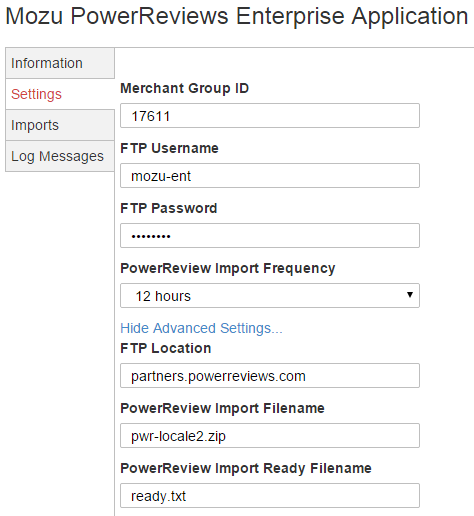
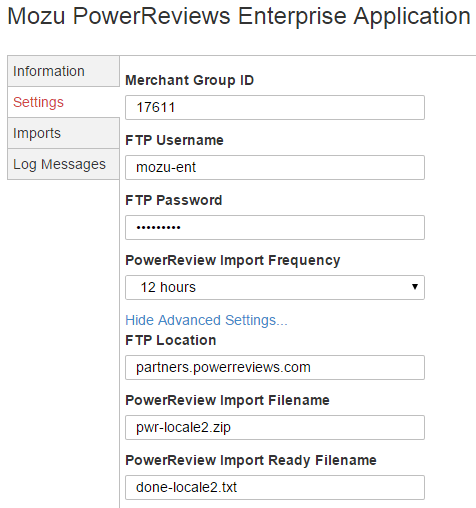
Updating with latest developer comments.

Changed region(s): [[0.0, 0.0886, 1.0, 1.0], [0.0, 0.0, 1.0, 0.0591]]

diff --git a/PowerReviews/Mozu-PowerReviews-App.htm b/PowerReviews/Mozu-PowerReviews-App.htm
@@ -131,10 +131,11 @@
                                 </li>
                                 <li><a href="#enable">Enable the App</a>
                                 </li>
+								<li><a href="#widgets">Add Widgets to Your Storefront</a>
+                                </li>
                                 <li><a href="#import">Import and Export Data</a>
                                 </li>
-                                <li><a href="#widgets">Add Widgets to Your Storefront</a>
-                                </li>
+                                
                             </ul>
                         </nav>
                     </div>
@@ -144,20 +145,27 @@
 				<section id="intro">
                             <h2>Welcome to PowerReviews and Mozu</h2>
                             <p><a href="http://www.powerreviews.com">PowerReviews</a> provides ratings and reviews that help increase buyer confidence and stimulate sales for your products. With PowerReviews, customers can leave ratings, write reviews, and ask questions directly on your product pages. PowerReviews can syndicate product reviews from all major retailers and search engines, increasing the reach of the reviews on your storefront.</p>
-                            <p>The <a href="http://www.mozu.com">Mozu</a> PowerReviews Enterprise Application seamlessly integrates your PowerReviews account with your storefront so that you can start displaying and generating reviews on your product and category pages. With the Mozu PowerReviews Enterprise Application, you can import and export PowerReviews content on demand or at scheduled intervals, ensuring that your storefront is kept up to date with the latest available reviews.</p>
+                            <p>The <a href="http://www.mozu.com">Mozu</a> PowerReviews Enterprise Application seamlessly integrates your PowerReviews account with your storefront so that you can start displaying and generating reviews on your product and category pages. With the Mozu PowerReviews Enterprise Application, you can import the following PowerReviews content on demand or at scheduled intervals between 1 to 12 hours, ensuring that your storefront is kept up to date with the latest available reviews:</p>
+							<ul>
+							<li>Ratings for each product, which also can be used for faceted search on your site</li>
+							<li>Reviews for each product</li>
+							<li>Social Answers (Question and Answer boxes)</li>
+							<li>SEO data for search engine bots</li>
+							</ul>
                         </section>
                         <section id="install">
                             <h2>Install the Mozu PowerReviews Enterprise Application on Your Tenant</h2>
                             <p>After purchasing the Mozu PowerReviews Enterprise Application, call your sales or professional services representative and request installation on your tenant. Mozu staff will install the app to your tenant, making it available for further configuration and usage in your storefront.</p>
                             <p>This application includes the following functionality:</p>
                             <ul>
-                                <li>Display PowerReviews widgets on your storefront, such as ratings summaries, detailed reviews, and Q &amp; A boxes.</li>
+                                <li>Display PowerReviews ratings summaries, detailed reviews, Write a Review links, and Question and Answer boxes using widgets in Site Builder.</li>
                                 <li>Incorporate PowerReviews ratings into your storefront's faceting filters.</li>
                                 <li>Import product reviews from PowerReviews to Mozu.</li>
-                                <li>Export product reviews received on your storefront to PowerReviews.</li>
-                                <li>Schedule imports/exports between PowerReviews and Mozu at set intervals or on demand.</li>
-                                <li>Generate SEO data from visible reviews on your product pages. This data is used by search engine bots to index your page and can bolster search results.</li>
-                                <li>Provide logging details for scheduled and on-demand jobs.</li>
+                                <li>Export products and categories from your site to PowerReviews.</li>
+								<li>Send customer reviews received on your storefront to PowerReviews.</li>
+                                <li>Schedule imports between PowerReviews and Mozu at set intervals or on demand.</li>
+                                <li>Increase your site's search engine optimization using reviews on your product pages. Search engine bots can use reviews content to index your page and bolster search results.</li>
+                                <li>Place web beacon widgets on your checkout page to measure the impact that reviews and Q&A have on sale conversion.</li>
                             </ul>
                             <h3 id="configreq">Configuration Requirements</h3>
                             <p>To configure the Mozu PowerReviews Enterprise Application, you must have the following:</p>
@@ -167,7 +175,7 @@
 								</li>
                                 <li>Access to modify and update your storefront theme.</li>
                             </ul>
-                            <p style="font-weight: normal;"><b>Note:</b> If you want to integrate reviews from a Volusion site with your PowerReviews account, contact our support team. If you want to integrate reviews from a third-party service, contact PowerReviews or an implementation engineer.</p>
+                            <p style="font-weight: normal;"><b>Note:</b> If you are switching from Volusion to Mozu and want to transfer your existing Volusion reviews, contact our support team. If you are switching from a third-party site to Mozu and want to transfer your reviews, contact PowerReviews or an implementation engineer.</p>
                         </section>
                         <section id="configapp">
                             <h2>Configure the Application</h2>
@@ -176,64 +184,50 @@
                             <ol>
                                 <li>Log in to your PowerReviews account.</li>
                                 <li style="font-weight: normal;">Click <b>Configuration»Configure Reviews</b> to display the general configuration settings for your PowerReviews account.</li>
-                                <li style="font-weight: normal;">Note the <i>Merchant Group ID</i>, <i>Merchant ID</i>, <i>Site ID</i>, <i>FTP Site</i>, <i>FTP username</i>, <i>FTP password</i>, and <i>ZIP File Name</i>. You need to enter these settings in Mozu.<br /><img src="powerreviews_config.png" class="img-mozu" /></li>
+                                <li style="font-weight: normal;">Note the <i>Merchant Group ID</i>, <i>Merchant ID</i>, <i>Site ID</i>, <i>FTP Site</i>, <i>FTP username</i>, <i>FTP password</i>, and <i>ZIP File Name</i>. You will need to enter these settings in Mozu.<br /><img src="powerreviews_config.png" class="img-mozu" /></li>
                                 <li>Log in to Mozu Admin.</li>
                                 <li>On the Mozu Admin top bar, select <b>Settings»Applications</b>.</li>
                                 <li>Click <b>Mozu PowerReviews Enterprise Application</b>.</li>
                                 <li>Click the <b>Configuration</b> link to open configuration settings.</li>
                                 <li>Open the <b>Settings</b> tab.</li>
-                                <li style="font-weight: normal;">Click <b>Add Merchant Group</b> to add your PowerReview account information to Mozu.
-									<ol><li style="font-weight: normal;">Enter the <b>Merchant Group ID</b>.</li><li style="font-weight: normal;">Enter the <b>FTP Username</b>.</li><li style="font-weight: normal;">Enter the <b>FTP Password</b>.</li><li style="font-weight: normal;">In the <b>PowerReview Import Frequency</b> drop-down, choose a frequency for importing content from PowerReviews to your Mozu site.</li><li style="font-weight: normal;">Click <b>Show Advanced Settings</b>.</li><li style="font-weight: normal;">Enter the <b>FTP Location</b> using the FTP site from your PowerReviews account.</li><li>Enter the <b>PowerReview Import Filename</b> using the ZIP file name from your PowerReviews account.</li><li>Create a <b>PowerReview Import Ready Filename</b> of your choice.</li></ol><img src="powerreviews_merchant.png" class="img-mozu" /></li>
-                                <li style="font-weight: normal;">Click <b>Add Mozu Site</b> to configure PowerReviews for your storefront.
-								<ol><li style="font-weight: normal;">Select your storefront from the <b>Mozu Site</b> drop-down.</li><li style="font-weight: normal;">Choose to enable exports to PowerReviews of your product and order ratings using <b>Enable Product Export</b> and <b>Enable Order Export</b>.</li><li style="font-weight: normal;">Enter the <b>Merchant ID</b>.</li><li style="font-weight: normal;">Enter the <b>Merchant Site ID</b>.</li><li style="font-weight: normal;">Enter the <b>Locale</b> to match your site settings.</li><li style="font-weight: normal;">Choose how much data to export using the <b>Number of days to include in order export</b>.</li></ol><img src="powerreviews_site.png" class="img-mozu" /></li>
-                                <li style="font-weight: normal;">Click <b>Save</b> to save changes to the Mozu Site.</li>
-								<li>Click <b>Save</b> to save changes to the Merchant Group.</li>
+                                <li style="font-weight: normal;">Click <b>Add Merchant Group</b> to add your PowerReview account information to Mozu:<br><img src="powerreviews_merchant.png" class="img-mozu" />
+									<ol><li style="font-weight: normal;">Enter the <b>Merchant Group ID</b>.</li><li style="font-weight: normal;">Enter the <b>FTP Username</b>.</li><li style="font-weight: normal;">Enter the <b>FTP Password</b>.</li><li style="font-weight: normal;">In the <b>PowerReview Import Frequency</b> drop-down, choose a frequency for importing content from PowerReviews to your Mozu site.</li><li style="font-weight: normal;">Click <b>Show Advanced Settings</b>.</li><li style="font-weight: normal;">Enter the <b>FTP Location</b> using the FTP site from your PowerReviews account.</li><li>Enter the <b>PowerReview Import Filename</b> using the ZIP file name from your PowerReviews account.</li><li>Enter a <b>PowerReview Import Ready Filename</b>. If your PowerReview Import Filename is <font face="Courier New">pwr.zip</font>, enter <font face="Courier New">done.txt</font>. If your PowerReview Import Filename is <font face="Courier New">pwr-<em>something</em>.zip</font>, enter <font face="Courier New">done-<em>something</em>.txt</font>. In this example, we enter <font face="Courier New">done-locale2.txt</font> because the PowerReviews Import Filename is <font face="Courier New">pwr-locale2.zip</font>.</li></ol></li>
+                                <li style="font-weight: normal;">Click <b>Add Mozu Site</b> to configure PowerReviews for your storefront:<br><img src="powerreviews_site.png" class="img-mozu" />
+								<ol><li style="font-weight: normal;">Select your storefront from the <b>Mozu Site</b> drop-down.</li><li style="font-weight: normal;">Enable <b>Enable Product Export</b> to send product information from your Mozu site to PowerReviews. This checkbox is required in order for PowerReviews to match reviews content with the products on your site.</li>
+								<li>Enable <b>Enable Order Export</b> to send order history information to PowerReviews. This information helps PowerReviews to remind shoppers about reviewing recently purchased products, suggest other products shoppers may enjoy, and provide other similar benefits that you can configure within your PowerReviews account.</li><li style="font-weight: normal;">Enter the <b>Merchant ID</b>.</li><li style="font-weight: normal;">Enter the <b>Merchant Site ID</b>.</li><li style="font-weight: normal;">Enter the <b>Locale</b> to match your site settings.</li><li style="font-weight: normal;">Choose how much data to export using the <b>Number of days to include in order export</b>.</li></ol></li>
+                                <li style="font-weight: normal;">Click <b>Save</b> to save changes to the Mozu Site configuration.</li>
+								<li>Click <b>Save</b> to save changes to the Merchant Group configuration.</li>
                             </ol>
                         </section>
                         <section id="enable">
                             <h2>Enable the App</h2>
-                            <p>After configuration, enable the Mozu PowerReviews Enterprise Application in Mozu and apply the PowerReviews theme to your storefront using Site Builder.</p>
+                            <p>After configuration, enable the Mozu PowerReviews Enterprise Application in Mozu and extend the PowerReviews theme to your storefront using Site Builder.</p>
+							<p>To enable the app:</p>
                             <ol>
                                 <li>On the Mozu Admin top bar, select <b>Settings»Applications</b>.</li>
                                 <li>Click <b>Mozu PowerReviews Enterprise Application</b>.</li>
                                 <li>Click <b>Enable App</b>.</li>
+							</ol>
+							<p>The Mozu PowerReviews Enterprise Application includes the PowerReviews theme. Consult with your theme developer to extend the functionality of the PowerReviews theme to your site's theme. The functionality of this theme allows you to create a Write a Review page and use widgets to add PowerReviews content to your product pages. To apply a theme:</p>
+							<ol>
                                 <li>In Mozu Admin, click <b>Site Builder</b>.</li>
                                 <li>Hover over your site and select <b>Theme</b>.</li>
-                                <li>Hover over the PowerReviews theme and click <b>Apply</b>.</li>
+                                <li>Hover over the theme that includes PowerReviews functionality and click <b>Apply</b>.</li>
+							</ol>
+							<p>To add a Write a Review page:</p>
+							<ol>
                                 <li>Click <b>Site Builder</b> to return to the Site Builder landing page.</li>
                                 <li>Hover over your site and select <b>Edit</b>.</li>
                                 <li>On the site map, click <b>Single Pages&#0187;Add Page</b>.</li>
 								<li>Add a <b>Write a Review</b> page by entering <font face="Courier">Write a Review</font> for the <b>Page Title</b>, accepting the default <b>Page Url</b>, and selecting <b>Write a Review</b> from the template drop-down.</li>
 								<li>Click <b>Save</b>.</li>
-                                <li>Add PowerReviews widgets to your Product page (see the <i>Add Widgets to Your Storefront</i> section of this guide for details).</li>
-                            </ol>
-                            <p><b>Note:</b> PowerReviews widgets may not display until after the first import of PowerReviews content.</p>
+							</ol>
+                                <p>To add PowerReviews widgets to your Product page, refer to the <i>Add Widgets to Your Storefront</i> section of this guide.</p>
+                            <p><b>Note:</b> PowerReviews widgets may not display until after the first import of PowerReviews content. To enable PowerReviews widgets on your Category pages, consult with your theme developer.</p>
                         </section>
-                        <section id="import">
-                            <h2>Import and Export Data</h2>
-                            <p>After configuring your settings and enabling the app, perform a manual export and import of data in order to populate PowerReviews content on your storefront for the first time. After the initial export and import, you can rely on automatic exports and imports between PowerReviews and Mozu for further updates.</p>
-                            <h3>Export Data</h3>
-                            <p>You can export reviews data about your products and orders from Mozu to PowerReviews using the Catalog or Order pages in Mozu Admin.</p>
-                            <ol>
-                                <li>In Mozu Admin, click <b>Catalog</b> or <b>Orders</b>.</li>
-                                <li>Click <b>Extensions»PowerReviews»Export</b>.</li>
-                                <li>Click <b>Export Now</b>.</li>
-                            </ol>
-                            <p>After you export data for the first time, Mozu automatically exports data based on the settings you set during configuration.</p>
-                            <h3>Import Data</h3>
-                            <p>You can import reviews data for your products using the Mozu PowerReviews Enterprise Application configuration settings.</p>
-                            <ol>
-                                <li>On the Mozu Admin top bar, select <b>Settings»Applications</b>.</li>
-                                <li>Click <b>Mozu PowerReviews Enterprise Application</b>.</li>
-                                <li>Click the <b>Configuration</b> link to open configuration settings.</li>
-                                <li>On the Import tab, click <b>Import Now</b>.</li>
-                            </ol>
-                            <p>After you import data for the first time, Mozu automatically imports data based on the settings you set during configuration.</p>
-                            <p>The Import tab in the application configuration settings displays a log of imports. By default, Mozu imports data files at 8:00 AM CST daily from PowerReviews. You can view imported ratings per product using the Catalog page in Mozu Admin (select <b>Catalog»Inventory</b> and search for a product). A Rating field displays in the Properties section, showing a calculated average of all PowerReview shopper ratings entered through your storefront, or syndicated from external sites if your PowerReview account provides syndication services. The PowerReviews storefront theme uses the Rating property as one option to facet and filter products on your storefront.</p>
-                        </section>
-                        <section id="widgets">
+						<section id="widgets">
                             <h2>Add Widgets to Your Storefront</h2>
-                            <p>Shoppers interact with PowerReviews content in your storefront through widgets you add to pages. The following PowerReviews widgets are available in Site Builder for use on the Product page:</p>
+                            <p>Shoppers interact with PowerReviews content on your storefront through widgets that you add to pages. The following PowerReviews widgets are available in Site Builder for use on the Product page:</p>
                             <ul>
                                 <li><b>Review Snippet</b>—Allows customers to enter reviews.
                                 </li>
@@ -243,18 +237,41 @@
                                 </li>
                                 <li><b>Q&amp;A Display</b>—Displays questions and answers.
                                 </li>
+								<li><b>PowerReviews ROI Beacon</b>—Measures how product reviews and Q&amp;A affect sale conversions. For use on your site's checkout page.
+                                </li>
                             </ul>
-                            <p>To add a widget, you may need help with customized code for adding dropzones or JavaScript code. Your implementation partners and Mozu staff can help with this content. </p>
+                            <p>To add a widget, you may need help with customized code for adding dropzones or JavaScript code. Your theme developer or Mozu staff can help you achieve these tasks. </p>
                             <ol>
                                 <li>In Mozu Admin, select <b>Site Builder</b>.</li>
                                 <li>Hover over your theme and select <b>Edit</b>.</li>
-                                <li>In the list of pages, expand the Templates section and select <b>Product</b>.</li>
+                                <li>In the list of pages, expand the Templates section and select <b>Product</b>.<br><b>Note:</b> To use the PowerReviews ROI Beacon widget, select the Checkout page.</li>
                                 <li>Enable <b>View dropzones</b>.</li>
-                                <li>Click <b>Widgets</b> and drag <b>PowerReviews Product Reviews</b> into a dropzone.<br /><img src="powerreviews_widgets.png" class="img-mozu"/></li>
-                                <li>A configuration window displays. Choose a widget type and specify tab details. You can stack multiple widget types on the same page.<br /><img src="powerreviews_widgconfig.png" class="img-mozu" /></li>
+                                <li>Click <b>Widgets</b> and drag <b>PowerReviews Product Reviews</b> or <b>PowerReviews ROI Beacon</b> into a dropzone.<br /><img src="powerreviews_widgets.png" class="img-mozu"/></li>
+                                <li>Choose a widget type in the configuration window.<br /><img src="powerreviews_widgconfig.png" class="img-mozu" />If you want shoppers to see the review and Q&A sections in separate tabs, enable <b>Is Tab Enabled?</b> and use <b>Tab Code</b> to enter the ID of the div that contains the tab. <b>Note:</b> Your theme must support the tab for for the tabbed display to work. Consult with your theme developer if you have questions about enabling and identifying the tab in your theme.</li>
                                 <li>Click <b>Save</b>.</li>
                             </ol>
                             <p>Congratulations! You can now preview PowerReviews functionality on your storefront.</p>
+                        </section>
+                        <section id="import">
+                            <h2>Import and Export Data</h2>
+                            <p>Before importing and exporting data, ensure you have configured and enabled the Mozu PowerReviews Enterprise Application.</p>
+                            <h3>Export Data</h3>
+                            <p>You can export reviews data about your products and categories from Mozu to PowerReviews using the Catalog or Order pages in Mozu Admin. Mozu recommends that you initially perform a manual export to check whether any errors occur during the export process.</p>
+                            <ol>
+                                <li>In Mozu Admin, click <b>Catalog</b> or <b>Orders</b>.</li>
+                                <li>Click <b>Extensions»PowerReviews»Export</b>.</li>
+                                <li>Click <b>Export Now</b>.</li>
+                            </ol>
+                            <p>If you encounter any errors, click on the error number in the list to identify the category or product that is causing the error. After the first manual export, Mozu automatically exports data if you enabled scheduled exports during configuration. Exports occur once a day between 2 and 3 am CST.</p>
+                            <h3>Import Data</h3>
+                            <p>You can import reviews data for your products using the configuration page for the Mozu PowerReviews Enterprise Application:</p>
+                            <ol>
+                                <li>On the Mozu Admin top bar, select <b>Settings»Applications</b>.</li>
+                                <li>Click <b>Mozu PowerReviews Enterprise Application</b>.</li>
+                                <li>Click the <b>Configuration</b> link to open configuration settings.</li>
+                                <li>On the Import tab, click <b>Import Now</b>.</li>
+                            </ol>
+                            <p>After you import data for the first time, Mozu automatically imports data based on the settings you set during configuration. For example, if you configure your settings at 10 am to import data every four hours, the imports occur six times a day at 2 am, 6 am, 10 am, 2 pm, 6 pm, and 10 pm. To view imported ratings for each product, use the Catalog page in Mozu Admin (select <b>Catalog»Inventory</b> and search for a product). A Rating field displays in the Properties section, showing a calculated average of all PowerReview shopper ratings entered through your storefront, or syndicated from external sites if your PowerReview account provides syndication services. The PowerReviews storefront theme uses the Rating property as one option to facet and filter products on your storefront.</p>
                         </section>
                     </div>
                 </div>

diff --git a/PowerReviews/versionhistory.html b/PowerReviews/versionhistory.html
@@ -130,12 +130,15 @@
 					<h2>May, 2015</h2>
 					<p>Initial release of the Mozu PowerReviews Enterprise Application! This application enables you to:</p>
 					<ul>
-					<li>Display PowerReviews widgets on your storefront, such as ratings summaries, detailed reviews, and Q & A boxes.</li>
-					<li>Incorporate PowerReviews ratings into your storefront's faceting filters.</li>
-					<li>Import product reviews from PowerReviews to Mozu.</li>
-					<li>Export product reviews received on your storefront to PowerReviews.</li>
-					<li>Schedule imports/exports between PowerReviews and Mozu at set intervals or on demand.</li>
-					</ul>
+                                <li>Display PowerReviews ratings summaries, detailed reviews, Write a Review links, and Question and Answer boxes using widgets in Site Builder.</li>
+                                <li>Incorporate PowerReviews ratings into your storefront's faceting filters.</li>
+                                <li>Import product reviews from PowerReviews to Mozu.</li>
+                                <li>Export products and categories from your site to PowerReviews.</li>
+								<li>Send customer reviews received on your storefront to PowerReviews.</li>
+                                <li>Schedule imports between PowerReviews and Mozu at set intervals or on demand.</li>
+                                <li>Increase your site's search engine optimization using reviews on your product pages. Search engine bots can use reviews content to index your page and bolster search results.</li>
+                                <li>Place web beacon widgets on your site to measure the impact that reviews and Q&A have on sale conversion.</li>
+                    </ul>
 				</section>
 				
 						</div>
